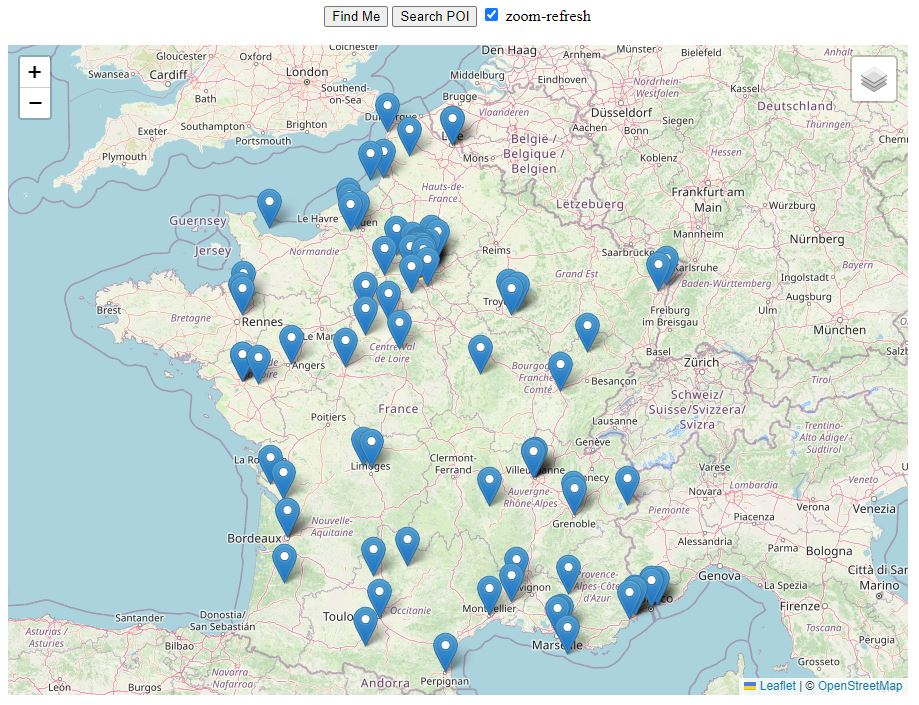
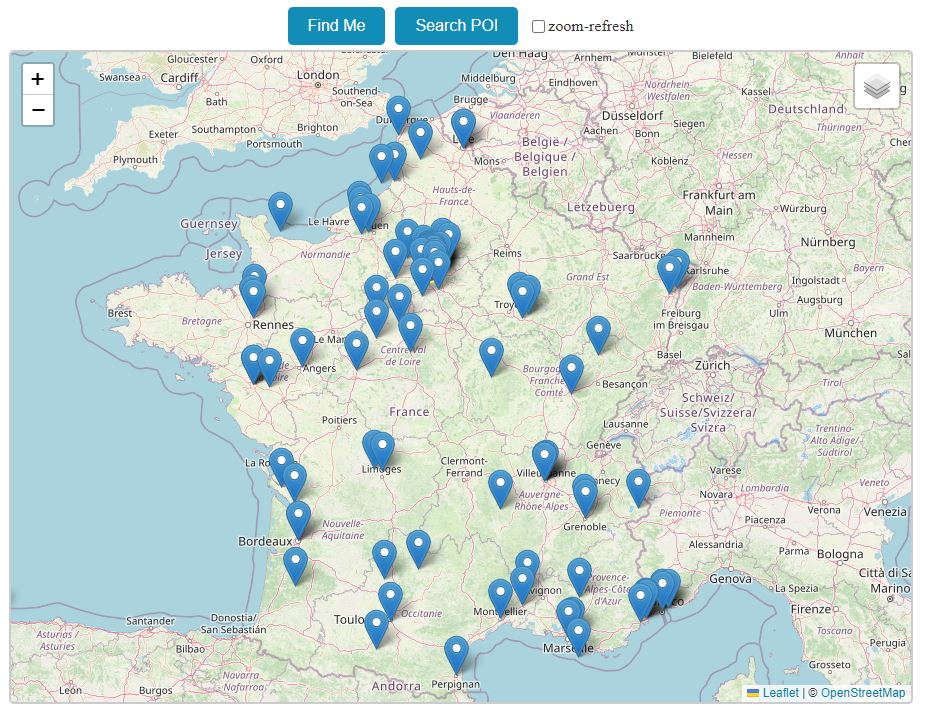
Small UI cosmetic changes

diff --git a/GeospatialWeb/wwwroot/app.css b/GeospatialWeb/wwwroot/app.css
@@ -2,42 +2,24 @@ h1:focus {
     outline: none;
 }
 
-.valid.modified:not([type=checkbox]) {
-    outline: 1px solid #26b050;
-}
-
-.invalid {
-    outline: 1px solid #e50000;
-}
-
-.validation-message {
-    color: #e50000;
-}
-
 .blazor-error-boundary {
[1 lines of base64/hex data omitted]
     padding: 1rem 1rem 1rem 3.7rem;
     color: white;
 }
 
-    .blazor-error-boundary::after {
-        content: "An error has occurred."
-    }
-
-.darker-border-checkbox.form-check-input {
-    border-color: #929292;
+.blazor-error-boundary::after {
+    content: "An error has occurred."
 }
 
-/* --- Custom --- */
-
-.container {
-    display: flex;
-    justify-content: center;
-}
+/* --- Custom for Map --- */
 
 #map {
     width: 900px;
     height: 650px;
+    border: 2px solid #ccc;
+    border-radius: 5px;
+    background-color: #fff;
 }
 
 .custom-marker {
@@ -47,4 +29,41 @@ h1:focus {
     height: 30px;
     display: block;
     border: 2px solid yellow;
+}
+
+/* --- Custom for General --- */
+
+.container {
+    display: flex;
+    justify-content: center;
+    align-items: center;
+    margin: 5px;
+}
+
+.controls {
+    display: flex;
+    align-items: center;
+    gap: 10px;
+}
+
+.button {
+    background-color: #008CBA;
+    color: white;
+    padding: 10px 20px;
+    border: none;
+    border-radius: 5px;
+    cursor: pointer;
+    transition: background-color 0.3s;
+    font-size: 16px;
+}
+
+.button:hover {
+    background-color: #005f75;
+}
+
+.checkbox-label {
+    font-size: 16px;
+    color: #333;
+    display: flex;
+    align-items: center;
 }
